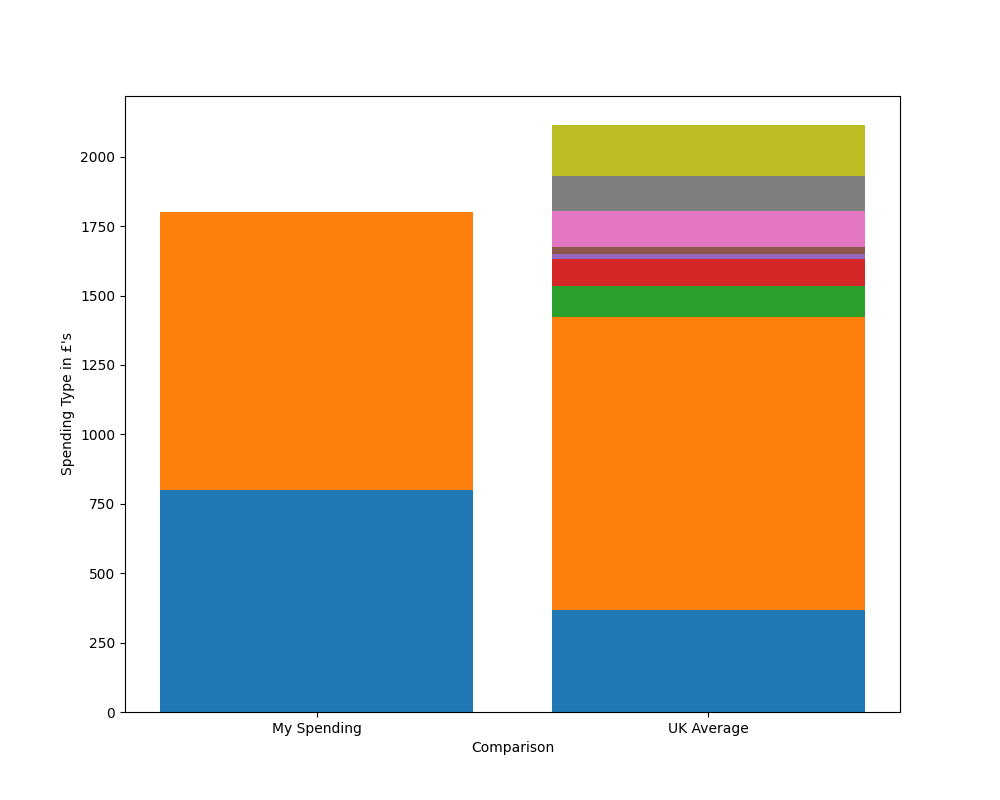
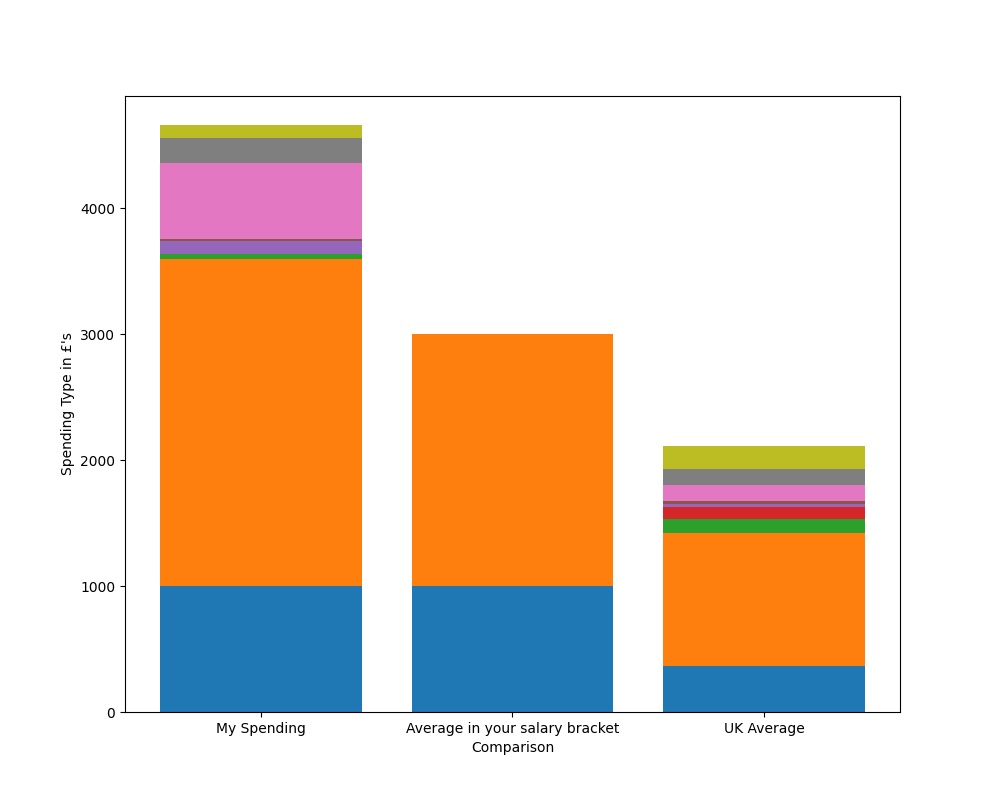
add a field so users get a more relevant salary linked comparison

diff --git a/application/templates/dashboard_form.html b/application/templates/dashboard_form.html
@@ -32,7 +32,7 @@
       <div class="accordion-item">
         <h2 class="accordion-header" id="headingTwo">
           <button class="accordion-button collapsed" type="button" data-bs-toggle="collapse" data-bs-target="#collapseTwo" aria-expanded="false" aria-controls="collapseTwo">
-            <strong>Income</strong>
+            <strong>Income (p/a)</strong>
           </button>
         </h2>
         <div id="collapseTwo" class="accordion-collapse collapse" aria-labelledby="headingTwo" data-bs-parent="#accordionExample">
@@ -55,7 +55,7 @@
       <div class="accordion-item">
         <h2 class="accordion-header" id="headingThree">
           <button class="accordion-button collapsed" type="button" data-bs-toggle="collapse" data-bs-target="#collapseThree" aria-expanded="false" aria-controls="collapseThree">
-            <strong>Outgoings</strong>
+            <strong>Outgoings (pcm)</strong>
           </button>
         </h2>
         <div id="collapseThree" class="accordion-collapse collapse" aria-labelledby="headingThree" data-bs-parent="#accordionExample">

diff --git a/application/templates/dashboard.html b/application/templates/dashboard.html
@@ -14,7 +14,7 @@
         {{ average_data }}
         <table>
           <tr>
-            <th>Average UK Monthly Spending</th>
+            <th>Average Spending for our salary bracket pcm</th>
             <th>&pound;'s</th>
           </tr>
           {% for key, value in average.items() %}

diff --git a/application/finance.py b/application/finance.py
@@ -94,20 +94,20 @@ class Finance:
 
 
     # code to create a stacked bar chart using a list
-    def create_stacked_bar(self, user_list, comparison_list):
+    def create_stacked_bar(self, user_list, salary_average, uk_average):
         #c = sns.color_palette('deep')
         plt.switch_backend('Agg') 
-        expenditure = ['My Spending', 'UK Average']
-        housing = [user_list[0], comparison_list[0]]
-        groceries = [user_list[1], comparison_list[1]]
-        bills = [user_list[2], comparison_list[2]]
-        fuel = [user_list[3], comparison_list[3]]
-        train = [user_list[4], comparison_list[4]]
-        bus = [user_list[5], comparison_list[5]]
-        cafe = [user_list[6], comparison_list[6]]
-        holiday = [user_list[7], comparison_list[7]]
-        clothes = [user_list[8], comparison_list[8]]
-        x = range(2)
+        expenditure = ['My Spending', 'Average in your salary bracket', 'UK Average']
+        housing = [user_list[0], salary_average[0], uk_average[0]]
+        groceries = [user_list[1], salary_average[1], uk_average[1]]
+        bills = [user_list[2], salary_average[2], uk_average[2]]
+        fuel = [user_list[3], salary_average[3], uk_average[3]]
+        train = [user_list[4], salary_average[4] ,uk_average[4]]
+        bus = [user_list[5], salary_average[5] ,uk_average[5]]
+        cafe = [user_list[6], salary_average[6] ,uk_average[6]]
+        holiday = [user_list[7], salary_average[7] ,uk_average[7]]
+        clothes = [user_list[8], salary_average[8] ,uk_average[8]]
+        x = range(3)
         bills_bottom = np.add(housing, groceries)
         fuel_bottom = np.add(bills_bottom, bills) 
         train_bottom = np.add(fuel_bottom, fuel)

diff --git a/application/routes.py b/application/routes.py
@@ -49,13 +49,23 @@ def form_input():
             DATA_PROVIDER.add_form_data(user_id, food_drink, housing, energy, petrol, train, bus, eating, holidays, clothes)
             
             user_data = DATA_PROVIDER.get_form_data(user_id)
-            uk_average_household_data = DATA_PROVIDER.get_form_data(1)
+            uk_average_homeowner_data = DATA_PROVIDER.get_form_data(1)
             
+            if salary > 75000:
+                salary_comparison_data = DATA_PROVIDER.get_form_data(11)
+            elif salary > 55000:
+                salary_comparison_data = DATA_PROVIDER.get_form_data(9)
+            elif salary > 45000:
+                salary_comparison_data = DATA_PROVIDER.get_form_data(7)
+            elif salary > 35000:
+                salary_comparison_data = DATA_PROVIDER.get_form_data(5)
+            else:
+                salary_comparison_data = DATA_PROVIDER.get_form_data(3)
 
             Finance.create_pie(user_data)
-            Finance.create_stacked_bar(user_data, uk_average_household_data)
+            Finance.create_stacked_bar(user_data, salary_comparison_data, uk_average_homeowner_data)
 
-            uk_average_household_data = Finance.create_table(uk_average_household_data)
+            uk_average_household_data = Finance.create_table(salary_comparison_data)
             weekly = Finance.dashboard_weekly_calculator(user_data)
             monthly = Finance.dashboard_monthly_calculator(user_data)
             annual = Finance.dashboard_annual_calculator(user_data)
